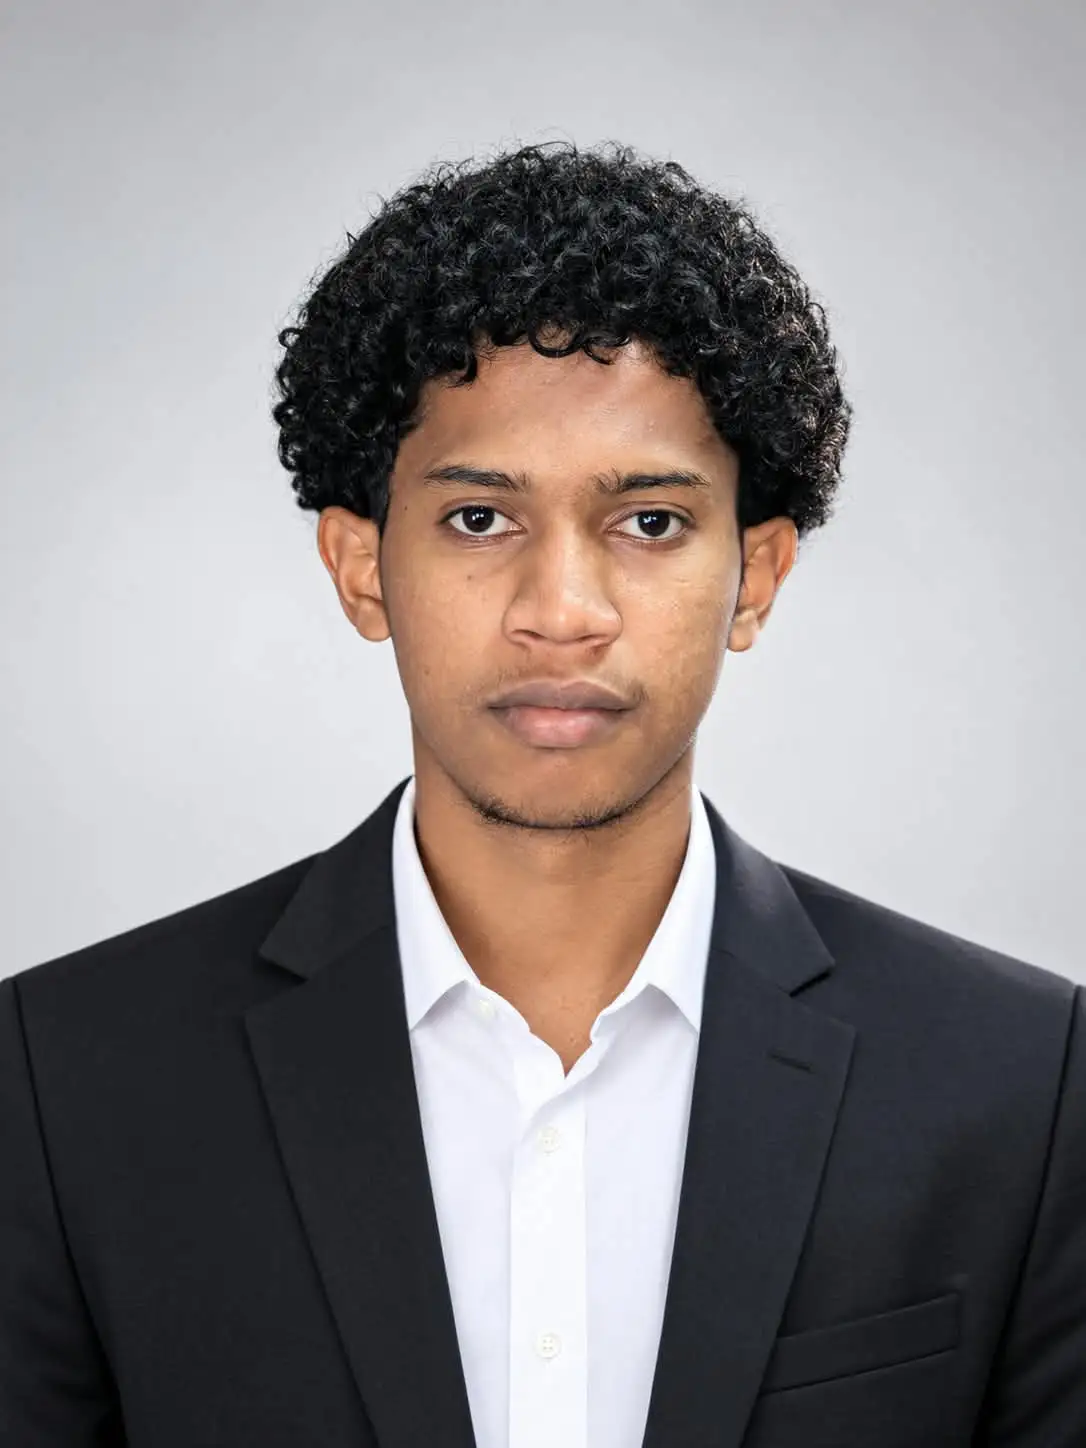
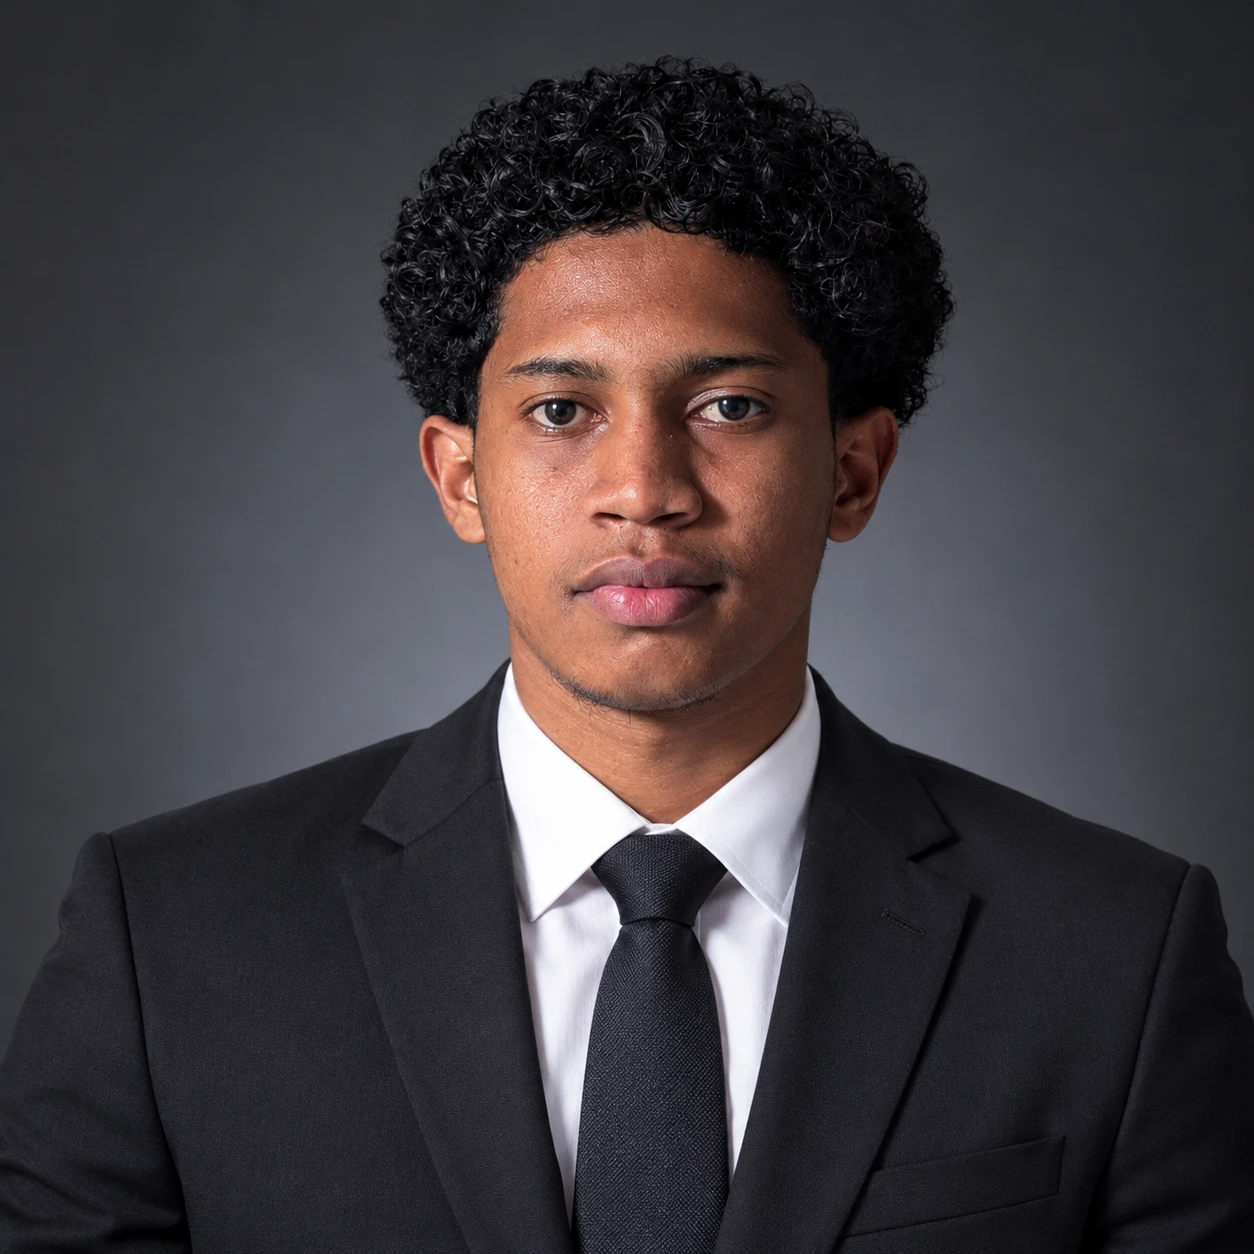
finition mon portfolio freelance

diff --git a/src/sections/FAQ.tsx b/src/sections/FAQ.tsx
@@ -20,7 +20,7 @@ const FAQ = () => {
           {
             question: "Comment se passe le paiement ?",
             answer:
-              "[À DÉFINIR] Les modalités de paiement sont définies avant le début du projet. Elles seront clairement indiquées dans le devis ou la proposition.",
+              " Les modalités de paiement sont définies avant le début du projet. Elles seront clairement indiquées dans le devis ou la proposition.",
           },
           {
             question:
@@ -65,7 +65,7 @@ const FAQ = () => {
           {
             question: "How does payment work?",
             answer:
-              "[TO BE DEFINED] Payment terms are agreed before the project starts. They will be clearly stated in the quote or proposal.",
+              " Payment terms are agreed before the project starts. They will be clearly stated in the quote or proposal.",
           },
           {
             question: "Can I request changes during the project?",

diff --git a/src/sections/About.tsx b/src/sections/About.tsx
@@ -88,7 +88,7 @@ const About = () => {
             {language === "fr" ? (
               <div className="mt-7 space-y-4 text-base leading-7 text-gray-600">
                 <p>
-                  Je suis Romario, développeur frontend spécialisé dans la
+                  Je suis RAKOTOVAO Henry Romario, développeur frontend spécialisé dans la
                   création d'interfaces web avec React et TypeScript.
                 </p>
 

diff --git a/index.html b/index.html
@@ -2,9 +2,9 @@
 <html lang="en">
   <head>
     <meta charset="UTF-8" />
-    <link rel="icon" type="image/svg+xml" href="/favicon.svg" />
+    <link rel="icon" type="image/svg+xml" href="profil.webp" />
     <meta name="viewport" content="width=device-width, initial-scale=1.0" />
-    <title>romario-portfolio</title>
+    <title>Romario-portfolio</title>
   </head>
   <body>
     <div id="root"></div>

diff --git a/src/data/pricing.ts b/src/data/pricing.ts
@@ -56,7 +56,7 @@ export const pricingPlans: PricingPlan[] = [
 
 export const maintenancePlan = {
   name: "Maintenance mensuelle",
-  price: "15 € / mois",
+  price: "17 € / mois",
   description:
     "Un accompagnement continu pour garder votre site à jour et faire évoluer son contenu.",
   features: [
